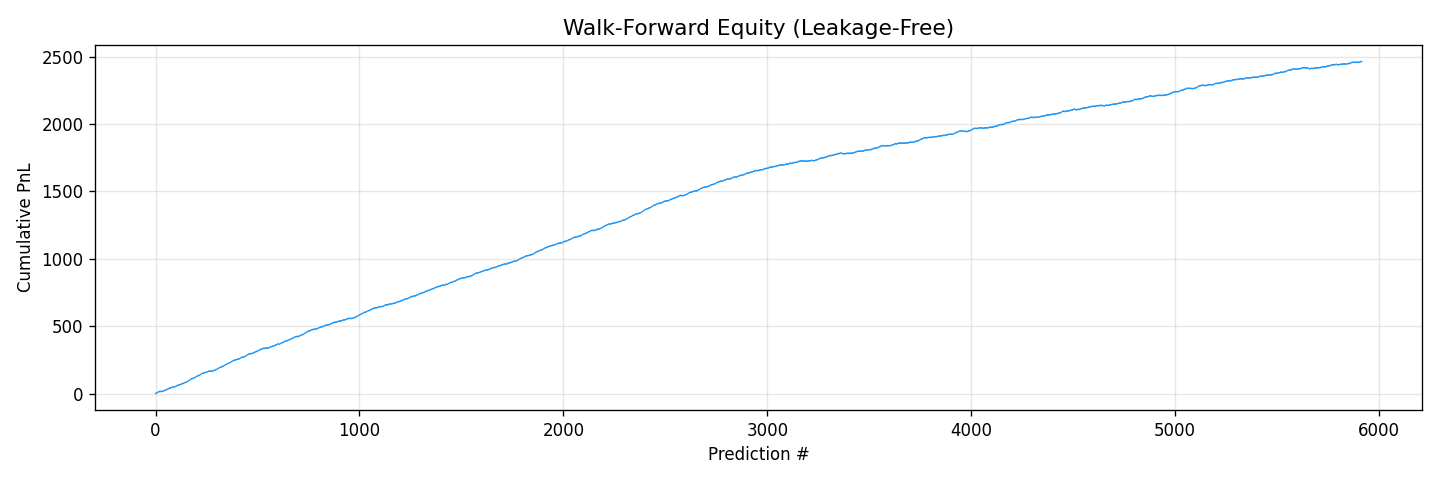
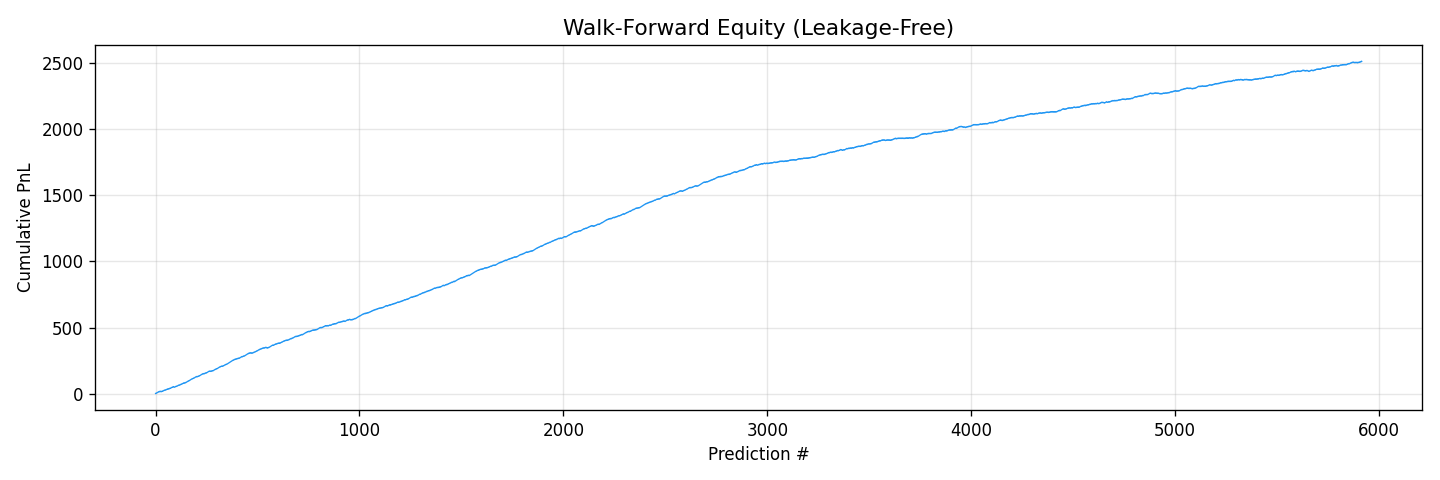
v5 structural features: sweeps, compression, skew/kurt, imbalance, regime transition, multi-horizon
12 new features (47 total): sweep_high/low, compression_ratio, rolling_skew/kurt_20,
bullish/bearish_count/imbalance_10, delta_adx/atr_5, return_2bar/3bar momentum

Results: Brier 0.1954->0.1936, Spearman 0.1662->0.2143 (crossed 0.2 threshold)
High-conf >=80%: 81.0%->85.8%, Log Loss: 0.5805->0.5760

diff --git a/feature_engineering.py b/feature_engineering.py
@@ -1,8 +1,10 @@
 """
-Feature Engineering v4 — continuous regime features + all prior features.
+Feature Engineering v5 — structural features + all prior features.
 
-New: adx_normalized, ema_slope_magnitude, atr_percentile_rank (soft regime).
-Total: 35 features.
+v5 adds: liquidity sweep signals (sweep_high, sweep_low), compression breakout,
+return skew/kurtosis, directional imbalance, regime transition momentum,
+multi-horizon confirmation.
+Total: 47 features.
 """
 
 import numpy as np
@@ -43,6 +45,19 @@ FEATURE_COLUMNS = [
     "h1_trend_direction", "h1_ema_alignment", "h1_atr", "m15_momentum",
     # Continuous regime (v4) (3)
     "adx_normalized", "ema_slope_magnitude", "atr_percentile_rank",
+    # ---- v5: Structural features (12) ----
+    # Liquidity sweep detection
+    "sweep_high", "sweep_low",
+    # Compression breakout
+    "compression_ratio",
+    # Return distribution shape
+    "rolling_skew_20", "rolling_kurt_20",
+    # Directional imbalance
+    "bullish_count_10", "bearish_count_10", "imbalance_10",
+    # Regime transition momentum
+    "delta_adx_5", "delta_atr_5",
+    # Multi-horizon confirmation
+    "return_2bar_momentum", "return_3bar_trend",
 ]
 
 
@@ -259,6 +274,39 @@ def compute_features(df, m15_df=None, h1_df=None):
     df["adx_normalized"] = df["adx"] / 100.0
     df["ema_slope_magnitude"] = df["ema_slope"].abs()
     df["atr_percentile_rank"] = _atr_percentile_rank(df["atr_14"], ATR_PERCENTILE_WINDOW)
+
+    # ---- v5: Structural features ----
+    returns = c.pct_change()
+
+    # Liquidity sweep detection (separate high/low sweeps)
+    roll_high_20 = h.rolling(20).max().shift(1)
+    roll_low_20 = l.rolling(20).min().shift(1)
+    df["sweep_high"] = ((h > roll_high_20) & (c < h)).astype(int)  # fake breakout up
+    df["sweep_low"] = ((l < roll_low_20) & (c > l)).astype(int)    # fake breakout down
+
+    # Compression breakout probability
+    range_width = h.rolling(20).max() - l.rolling(20).min()
+    range_mean_100 = range_width.rolling(100, min_periods=20).mean()
+    df["compression_ratio"] = range_width / (range_mean_100 + 1e-10)
+
+    # Return distribution shape
+    df["rolling_skew_20"] = returns.rolling(20, min_periods=10).skew()
+    df["rolling_kurt_20"] = returns.rolling(20, min_periods=10).kurt()
+
+    # Directional imbalance
+    is_bull = (c > o).astype(int)
+    is_bear = (c < o).astype(int)
+    df["bullish_count_10"] = is_bull.rolling(10, min_periods=1).sum()
+    df["bearish_count_10"] = is_bear.rolling(10, min_periods=1).sum()
+    df["imbalance_10"] = df["bullish_count_10"] - df["bearish_count_10"]
+
+    # Regime transition momentum
+    df["delta_adx_5"] = df["adx"] - df["adx"].shift(5)
+    df["delta_atr_5"] = df["atr_14"] - df["atr_14"].shift(5)
+
+    # Multi-horizon confirmation
+    df["return_2bar_momentum"] = returns.rolling(2, min_periods=1).sum()
+    df["return_3bar_trend"] = c.pct_change(3)
 
     # Drop warmup
     warmup = max(EMA_200, BB_PERIOD, ATR_PERIOD, RSI_PERIOD, MACD_SLOW,
